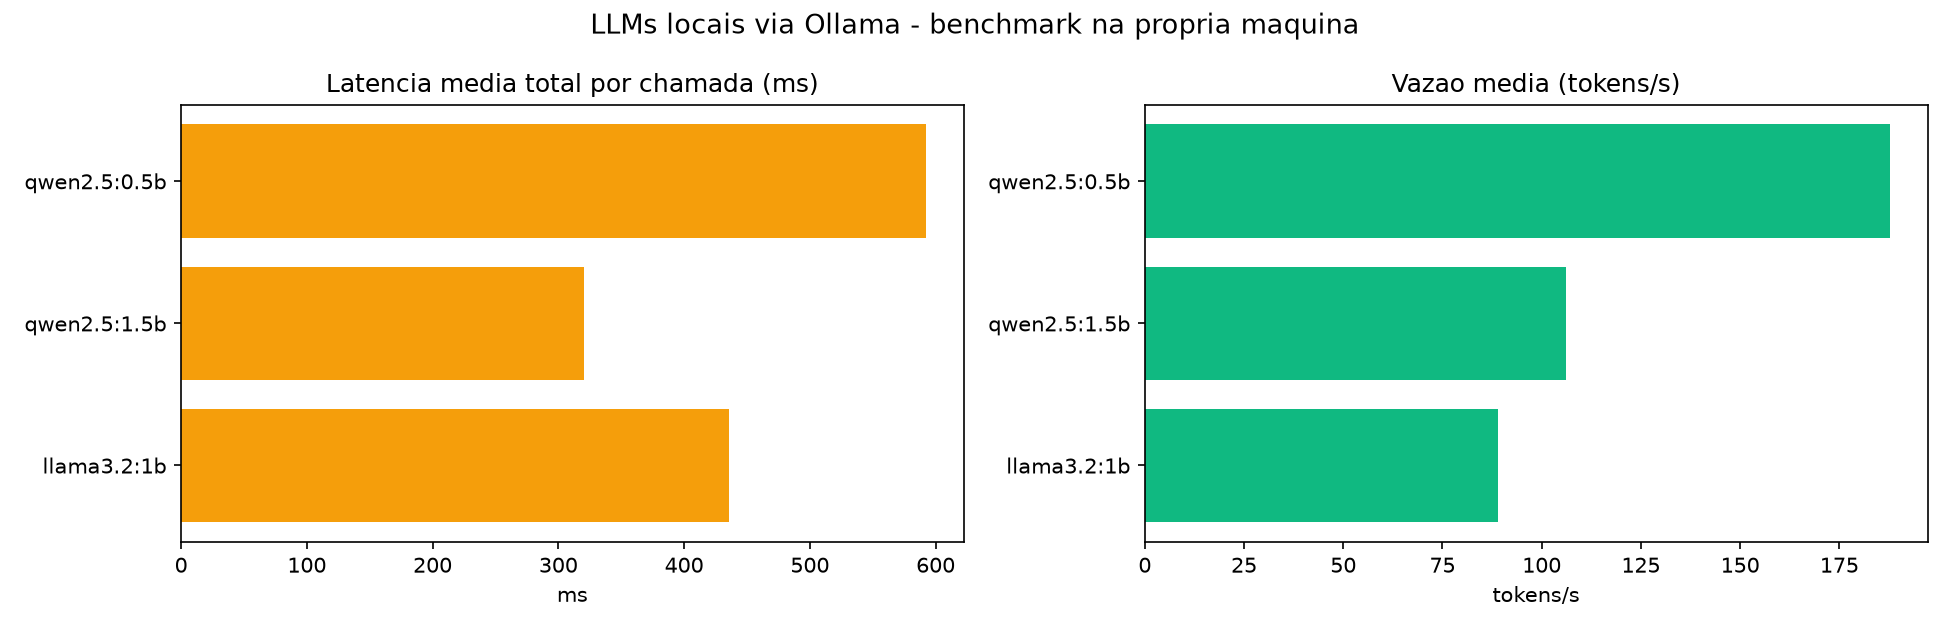
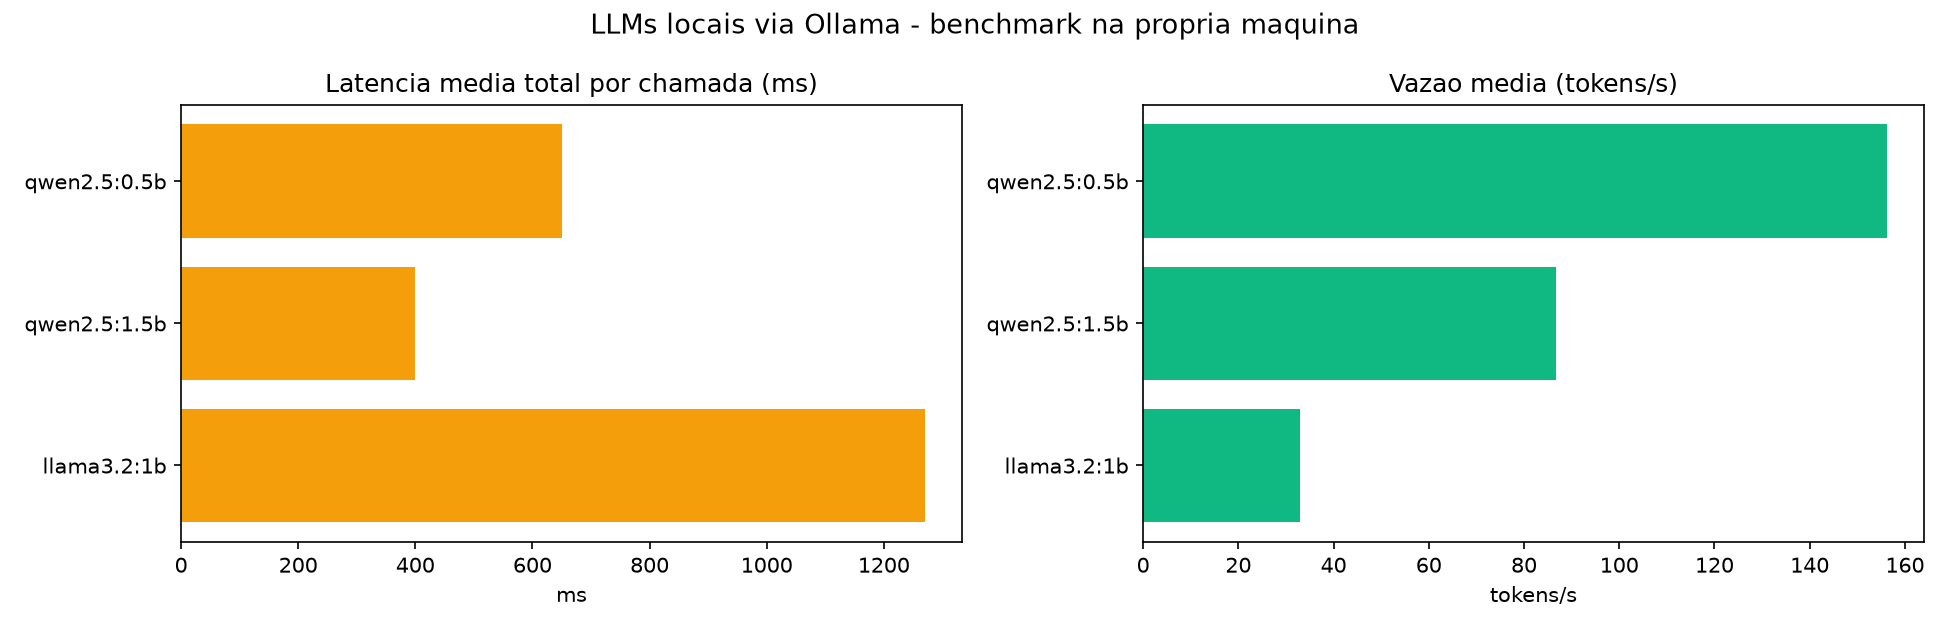
chore(benchmarks): atualizar relatorios e metricas dos modulos 0008 e 0009

diff --git a/0009_saida_estruturada/data/structured_relatorio.md b/0009_saida_estruturada/data/structured_relatorio.md
@@ -7,31 +7,31 @@
 
 | modo   |   parse_ok_pct |   schema_ok_pct |   semantico_ok_pct |   recuperado_pct |   total_medio_ms |   tokens_medios |   chamadas |
 |:-------|---------------:|----------------:|-------------------:|-----------------:|-----------------:|----------------:|-----------:|
-| json   |           88.9 |               0 |                0   |                0 |           1158.3 |            39.2 |         18 |
-| livre  |            0   |               0 |                0   |                0 |           3007.7 |            87.2 |         18 |
-| schema |          100   |             100 |               44.4 |              nan |            400.5 |            22.7 |         18 |
+| json   |           83.3 |               0 |                0   |                0 |            944.9 |            38.3 |         18 |
+| livre  |            0   |               0 |                0   |                0 |           2514.9 |            79.8 |         18 |
+| schema |          100   |             100 |               44.4 |              nan |            352.9 |            22.7 |         18 |
 
 ## Resumo por modelo e nivel
 
 | modelo       | modo   |   parse_ok_pct |   schema_ok_pct |   semantico_ok_pct |   total_medio_ms |
 |:-------------|:-------|---------------:|----------------:|-------------------:|-----------------:|
-| llama3.2:1b  | json   |           66.7 |               0 |                0   |           2192   |
-| llama3.2:1b  | livre  |            0   |               0 |                0   |           4383.2 |
-| llama3.2:1b  | schema |          100   |             100 |               33.3 |            466.8 |
-| qwen2.5:0.5b | json   |          100   |               0 |                0   |            594   |
-| qwen2.5:0.5b | livre  |            0   |               0 |                0   |           1697.3 |
-| qwen2.5:0.5b | schema |          100   |             100 |               66.7 |            269.4 |
-| qwen2.5:1.5b | json   |          100   |               0 |                0   |            688.8 |
-| qwen2.5:1.5b | livre  |            0   |               0 |                0   |           2942.6 |
-| qwen2.5:1.5b | schema |          100   |             100 |               33.3 |            465.3 |
+| llama3.2:1b  | json   |           66.7 |               0 |                0   |           1423.3 |
+| llama3.2:1b  | livre  |            0   |               0 |                0   |           4159.2 |
+| llama3.2:1b  | schema |          100   |             100 |               33.3 |            484.6 |
+| qwen2.5:0.5b | json   |           83.3 |               0 |                0   |            679.4 |
+| qwen2.5:0.5b | livre  |            0   |               0 |                0   |           1366.1 |
+| qwen2.5:0.5b | schema |          100   |             100 |               66.7 |            245.1 |
+| qwen2.5:1.5b | json   |          100   |               0 |                0   |            732.1 |
+| qwen2.5:1.5b | livre  |            0   |               0 |                0   |           2019.2 |
+| qwen2.5:1.5b | schema |          100   |             100 |               33.3 |            329   |
 
 ## A Nova Fronteira: Modelos System 1 (Passada Unica sem Geracao)
 
 - **Paradigma:** `System 1 (Single Forward Pass / Decisor Direto)`
 - **Referencias da Industria:** `Laya (Open-Source), Jev (TypeSafe AI), Kev`
-- **Latencia Mediana (p50):** `13.61 ms` (vs ~1.500 ms no modo schema)
-- **Latencia Percentil 95 (p95):** `17.22 ms`
-- **Latencia Media:** `12.97 ms`
+- **Latencia Mediana (p50):** `14.78 ms` (vs ~1.500 ms no modo schema)
+- **Latencia Percentil 95 (p95):** `17.01 ms`
+- **Latencia Media:** `15.11 ms`
 - **Tokens gerados no decoder:** `0` (sem loop autoregressivo)
 - **Conformidade com schema:** `100.0%`
 - **Acuracia de decisao:** `100.0%`

diff --git a/0008_llms_locais_ollama/data/benchmark_relatorio.md b/0008_llms_locais_ollama/data/benchmark_relatorio.md
@@ -8,9 +8,9 @@
 
 | modelo | ttft_medio_ms | total_medio_ms | tokens_por_segundo | tokens_gerados_medios | chamadas |
 | --- | --- | --- | --- | --- | --- |
-| qwen2.5:0.5b | 62.4 | 592.7 | 187.8 | 73.7 | 12 |
-| qwen2.5:1.5b | 81.3 | 320.0 | 106.1 | 21.2 | 12 |
-| llama3.2:1b | 47.5 | 436.1 | 89.0 | 33.3 | 12 |
+| qwen2.5:0.5b | 78.1 | 649.6 | 156.2 | 73.7 | 12 |
+| qwen2.5:1.5b | 95.6 | 399.2 | 86.7 | 21.2 | 12 |
+| llama3.2:1b | 112.6 | 1270.0 | 32.9 | 33.3 | 12 |
 
 ## Saida estruturada: JSON valido e tool correta
 
@@ -24,7 +24,7 @@
 
 | modelo_embedding | dimensao | documentos | latencia_batch_docs_ms | latencia_batch_queries_ms | taxa_acerto_top1 |
 | --- | --- | --- | --- | --- | --- |
-| nomic-embed-text | 768 | 8 | 1278.4 | 43.7 | 1.0 |
+| nomic-embed-text | 768 | 8 | 1911.6 | 39.0 | 1.0 |
 
 ## Interpretacao
 
